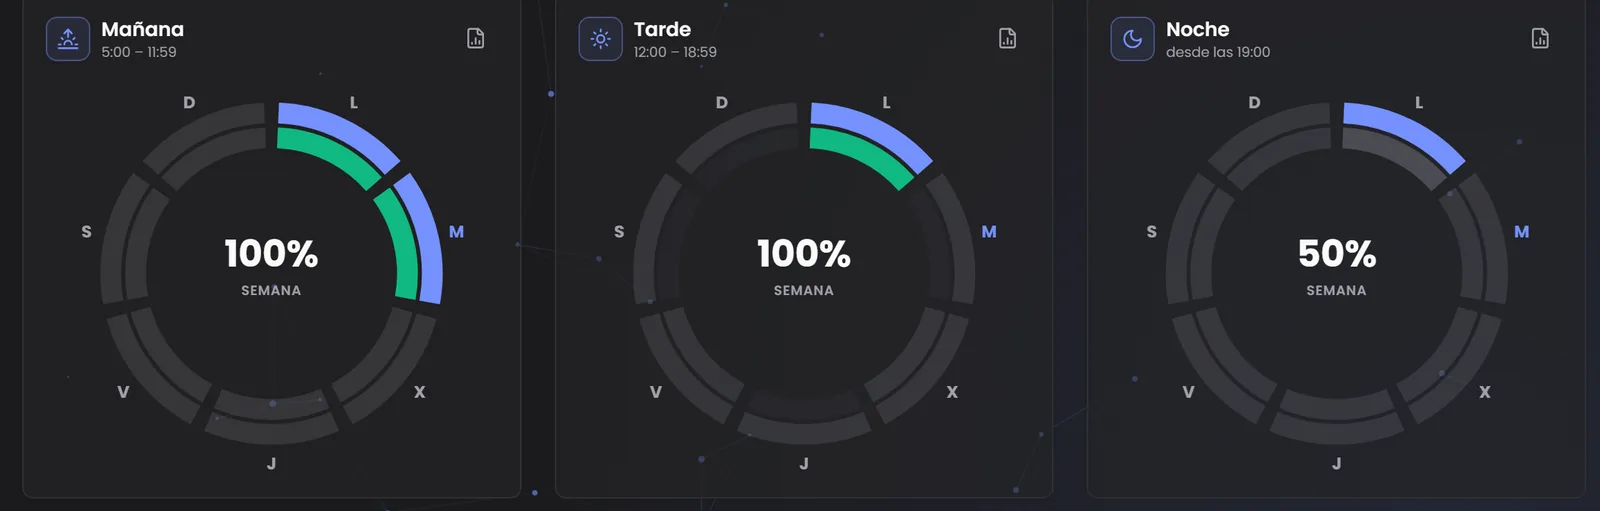
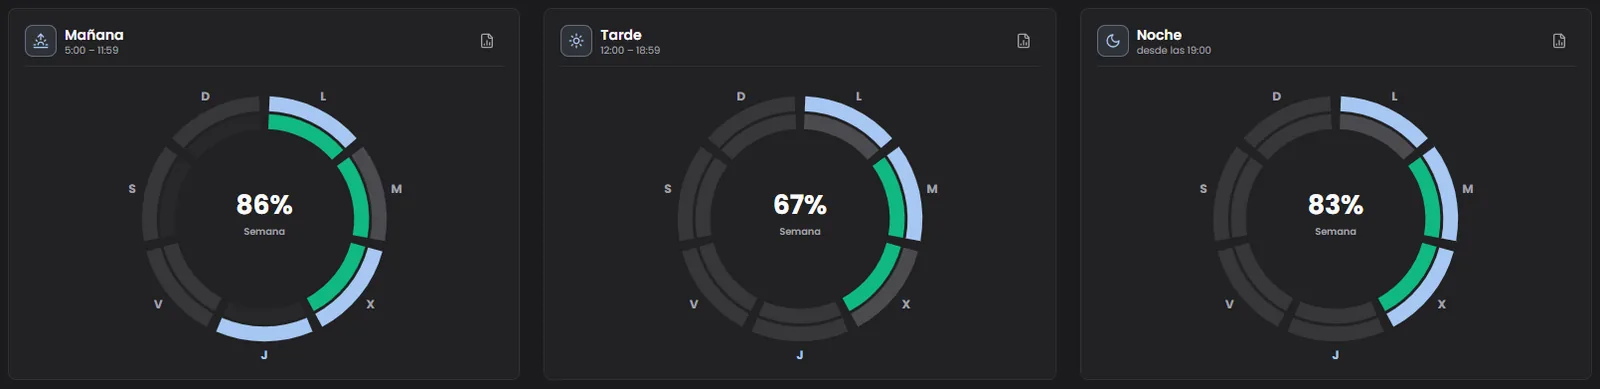
Web de Frame 1.9.0: capturas nuevas, Inicio con el horario y Privacidad 5.5
- Capturas reales de Inicio, Estudio, Tareas y los anillos de hábitos, en
  claro y oscuro, con un perfil de demostración.
- Inicio: la foto del horario que Frame lee, sin el radar de asignaturas.
- Política de Privacidad 5.5 (lectura de horarios, 3.8).
- Fuera tres capturas que la página ya no usaba.

diff --git a/privacidad/index.html b/privacidad/index.html
@@ -30,7 +30,7 @@
   </header>
   <main id="contenido" class="container legal">
     <h1>Política de Privacidad de Frame</h1>
-    <p><strong>Versión 5.4 · Vigente desde el 7 de noviembre de 2026</strong></p>
+    <p><strong>Versión 5.5 · Vigente desde el 8 de noviembre de 2026</strong></p>
     <p>Esta Política explica qué datos personales trata Frame, con qué finalidad, sobre qué base legal, durante cuánto tiempo, quién más interviene y qué derechos te asisten. Se emite conforme a la <strong>Ley N.º 29733, Ley de Protección de Datos Personales</strong>, y a su <strong>Reglamento aprobado por Decreto Supremo N.º 016-2024-JUS</strong>, vigente desde el 30 de marzo de 2025.</p>
     <p>Está redactada para ser comprendida por un estudiante de secundaria. Si algo no se entiende, escribe a vt.asvent@gmail.com y se te explicará.</p>
     <h2>1. Responsable del tratamiento</h2>
@@ -43,7 +43,7 @@
     <p>Asignaturas, colecciones, profesores, tareas y su contenido, notas de recursos, adjuntos, sesiones de estudio, valoraciones de enfoque, calificaciones, hábitos, eventos del calendario local, horarios, metas, grabaciones de voz, imágenes y biblioteca de música, con las portadas y letras que traen tus canciones o que tú les añades, y lo que escuchas en ella (reproducciones y tiempo por canción, playlist y artista, día a día).</p>
     <p><strong>Sobre estos datos no realizamos tratamiento alguno</strong>: no se transmiten al Proveedor ni a terceros, salvo el subconjunto descrito en 3.2 cuando inicias sesión.</p>
     <h3>3.2 Datos replicados en tu cuenta</h3>
-    <p>Si inicias sesión, se replica tu <strong>Estado Académico</strong>: asignaturas, tareas y su avance, sesiones y sus anotaciones, calificaciones, hábitos, eventos y recordatorios del calendario con los colores de sus casillas, anotaciones sin asignatura, playlists y su orden, las canciones que marcas con el corazón (por su título y artista, nunca el archivo), vídeos de estudio, metas y configuración (incluidos el idioma, la proporción de las imágenes y la ciudad del clima que eliges a mano). Los cambios viajan además por un canal en vivo de tu Cuenta, cifrados con una clave que solo conocen tus dispositivos, para llegar a tus otros dispositivos en menos de un segundo. También se guardan en una carpeta privada de tu Cuenta, para que aparezcan en tus otros dispositivos, tu <strong>foto de perfil y la imagen de tu horario</strong>; de las imágenes de la galería de Frame que pones a tus playlists, asignaturas y colecciones solo viaja una referencia (cuál es y su encuadre). <strong>Nunca se replican la música, las grabaciones de voz, los adjuntos ni las imágenes que subes tú a playlists, asignaturas y colecciones.</strong></p>
+    <p>Si inicias sesión, se replica tu <strong>Estado Académico</strong>: asignaturas, tareas y su avance, sesiones y sus anotaciones, calificaciones, hábitos, eventos y recordatorios del calendario con los colores de sus casillas, anotaciones sin asignatura, playlists y su orden, las canciones que marcas con el corazón (por su título y artista, nunca el archivo), vídeos de estudio, horarios con sus clases, metas y configuración (incluidos el idioma, la proporción de las imágenes y la ciudad del clima que eliges a mano). Los cambios viajan además por un canal en vivo de tu Cuenta, cifrados con una clave que solo conocen tus dispositivos, para llegar a tus otros dispositivos en menos de un segundo. También se guardan en una carpeta privada de tu Cuenta, para que aparezcan en tus otros dispositivos, tu <strong>foto de perfil y las fotos de tus horarios</strong>; de las imágenes de la galería de Frame que pones a tus playlists, asignaturas y colecciones solo viaja una referencia (cuál es y su encuadre). <strong>Nunca se replican la música, las grabaciones de voz, los adjuntos ni las imágenes que subes tú a playlists, asignaturas y colecciones.</strong></p>
     <h3>3.3 Datos de cuenta</h3>
     <p>Correo electrónico, nombres y apellidos, nombre de usuario, imagen de perfil si la cargas, y credenciales de autenticación, que se almacenan cifradas y nunca en texto claro. La contraseña que creas es exclusiva de Frame: nunca te pedimos la de tu correo electrónico. Si te registras con Google, recibimos de Google únicamente los datos básicos de perfil necesarios para crear la cuenta; <strong>nunca tu contraseña de Google</strong>.</p>
     <h3>3.4 Datos de diagnóstico</h3>
@@ -57,11 +57,17 @@
     <p><strong>Lo que pasa sin guardarse.</strong> Cada pedido del chat y la respuesta de tu Frame —que pueden incluir tus tareas, asignaturas, hábitos, eventos, sesiones, informes y música— viajan cifrados por un relé del Proveedor alojado en Cloudflare, que los entrega a la Frame que tengas abierta y devuelve la respuesta al chat. <strong>El relé no guarda las llamadas ni sus respuestas</strong>, ni las usa para nada más.</p>
     <p><strong>Lo que se guarda para que la conexión funcione.</strong> El identificador de tu Cuenta; el nombre con que se presenta cada chat y sus direcciones de retorno; los códigos de conexión, las autorizaciones y las sesiones de cada chat, como huella cifrada (SHA-256) y con sus fechas; la lista de herramientas que ofrece Frame; y, mientras una Frame está conectada al relé, un identificador aleatorio de ese equipo, su sistema (Windows o Android), la versión de Frame y la hora de su última conexión.</p>
     <p><strong>Cómo se corta.</strong> «Desconectar los chats», en la extensión, borra al instante tus sesiones y códigos y anula los accesos en curso. Al eliminar tu Cuenta desde un equipo con la extensión pasa lo mismo; si la eliminas desde otro, esas sesiones ya no sirven y se borran al caducar. Lo que el chat hace con lo que recibe se rige por la política de privacidad de su proveedor (por ejemplo, Anthropic u OpenAI), con quien te relacionas directamente.</p>
+    <h3>3.8 Lectura de horarios</h3>
+    <p>Solo cuando pides a Frame que lea las clases de la foto de un horario —al añadirlo, con «Leer las clases» o con «Volver a leer la foto»—:</p>
+    <p><strong>Lo que pasa sin guardarse.</strong> La foto, reducida, viaja cifrada con tu sesión de Cuenta a un servicio del Proveedor alojado en Cloudflare, que se la entrega al modelo abierto <strong>Gemma 4</strong> en <strong>Cloudflare Workers AI</strong> para extraer las clases —día, hora, asignatura y, si figuran, aula y docente— y te las devuelve. <strong>Ni ese servicio ni Cloudflare guardan la foto ni lo leído</strong>, ni lo usan para entrenar modelos: Cloudflare lo procesa sin retención de datos.</p>
+    <p><strong>Lo que se guarda.</strong> Para que nadie agote las lecturas de los demás, el servicio anota cuántas fotos lee tu Cuenta cada día, junto con su identificador; esa anotación se borra al día siguiente. Las clases leídas se guardan en tu Frame como parte de tu Estado Académico (apartado 3.2), donde puedes corregirlas o borrarlas.</p>
+    <p><strong>Es opcional.</strong> Puedes añadir las clases a mano, sin enviar la foto a ninguna parte.</p>
     <h2>4. Finalidades y bases legales</h2>
     <p><strong>Prestar el servicio.</strong> Los datos de cuenta y el Estado Académico replicado se tratan para autenticarte, mantener la copia de seguridad y sincronizar tu información entre dispositivos. <strong>Base legal:</strong> ejecución de la relación contractual establecida en los Términos y Condiciones. Sin estos datos los Servicios de Cuenta no pueden prestarse.</p>
     <p><strong>Seguridad de la cuenta.</strong> Los registros de acceso se tratan para detectar accesos no autorizados y abusos. <strong>Base legal:</strong> interés legítimo del Proveedor en la seguridad del servicio, ponderado con tus derechos.</p>
     <p><strong>Diagnóstico y mejora.</strong> Los datos del apartado 3.4 se tratan para detectar fallos, medir de forma agregada el uso de las funciones, orientar el desarrollo y <strong>elaborar estadísticas agregadas sobre el efecto de la Aplicación en los hábitos de estudio</strong> (por ejemplo, cuántos estudiantes la usan o cómo evoluciona el tiempo de estudio registrado), que pueden difundirse únicamente como cifras de conjunto en las que ninguna persona es identificable. El responsable de Frame puede consultar estos indicadores <strong>por estudiante</strong> en un panel interno —junto al nombre de usuario, si tienes Cuenta— para entender cómo se usa la Aplicación y detectar dónde falla; los informes con ese detalle son de <strong>uso interno</strong> y no se difunden ni se ceden. Salen de tu equipo <strong>seudonimizados y agregados</strong> —recuentos, totales y marcas temporales asociados a un identificador aleatorio— y <strong>nunca incluyen el contenido de tus tareas, notas, grabaciones ni documentos</strong>. <strong>Base legal:</strong> el interés legítimo del Proveedor en mantener la Aplicación en funcionamiento y corregir sus fallos, ponderado con tus derechos y limitado a lo estrictamente necesario para esa finalidad; no se emplean con fines publicitarios, ni para elaborar perfiles, ni para tomar decisiones automatizadas que te afecten. <strong>Puedes oponerte en cualquier momento</strong> escribiendo a vt.asvent@gmail.com e indicando tu identificador de instalación, que encontrarás en «Ajustes → Información del sistema»: se suprimirán los registros asociados a esa instalación y no se conservarán los que lleguen después. La Aplicación <strong>no incorpora todavía un interruptor propio</strong> para desactivar estos envíos; mientras no exista, esa dirección es la vía para ejercer tu oposición. <strong>Oponerte no afecta a ninguna función de la Aplicación.</strong></p>
     <p><strong>Chats de IA en la web.</strong> Los datos del apartado 3.7 se tratan para conectar con tu Frame el chat que tú elegiste y mantener esa conexión. <strong>Base legal:</strong> tu consentimiento, que das al conectar el chat y retiras con «Desconectar los chats».</p>
+    <p><strong>Lectura de horarios.</strong> Los datos del apartado 3.8 se tratan para leer las clases de la foto que eliges y limitar las lecturas diarias de cada Cuenta. <strong>Base legal:</strong> tu consentimiento, que das al pedir cada lectura.</p>
     <p><strong>Atención de consultas y reportes.</strong> <strong>Base legal:</strong> tu consentimiento al escribirnos y el interés legítimo en atenderte.</p>
     <p><strong>Cumplimiento legal.</strong> Conservación y entrega de información cuando lo exija una norma o una autoridad competente. <strong>Base legal:</strong> cumplimiento de obligación legal.</p>
     <h2>5. Datos de niñas, niños y adolescentes</h2>
@@ -74,8 +80,8 @@
     <p><strong>6.2.</strong> Los servidores se ubican en Estados Unidos de América (región de Amazon Web Services us-west-2, Oregón). Ello supone un <strong>flujo transfronterizo de datos personales</strong>, del que quedas informado y respecto del cual se han adoptado las garantías exigidas por la normativa peruana. La relación actualizada de encargados y subencargados figura en el Anexo B.</p>
     <p><strong>6.3.</strong> Cuando utilizas las interfaces de Gmail, YouTube, Classroom o Drive, <strong>interactúas directamente con Google LLC</strong> conforme a su propia política de privacidad. En esa relación Google es responsable del tratamiento y el Proveedor no interviene.</p>
     <p><strong>6.4. Compromiso de uso limitado.</strong> El uso que la Aplicación hace de la información recibida de las API de Google se ajusta a la <em>Google API Services User Data Policy</em>, incluidos sus requisitos de uso limitado. En particular, esos datos <strong>se emplean únicamente para proveer o mejorar las funciones visibles al usuario, no se transfieren a terceros salvo para prestar esas funciones o por exigencia legal, no se usan con fines publicitarios y no se someten a lectura humana</strong> salvo consentimiento expreso, requerimiento legal o razones de seguridad.</p>
-    <p><strong>6.4 bis. Música, portadas y letras.</strong> Por sí misma, la Aplicación no descarga canciones, portadas ni letras, ni consulta ningún servicio para buscarlas: reproduce los archivos que tú importas y muestra la portada y la letra que traen esos archivos, las que tú añades desde tu dispositivo y las que versiones anteriores ya guardaron en él, que se conservan. Si instalas y activas una <strong>extensión de descargas</strong> —un programa de terceros que se ejecuta en tu propio equipo—, la Aplicación le envía, a petición tuya, el enlace y los datos de cada canción que añades (título, artista, álbum y duración), y es <strong>ese programa</strong> el que la descarga y consulta servicios públicos de letras y portadas para completarla; la Aplicación solo importa el archivo que entrega. Ese programa y esos servicios se rigen por sus propias condiciones, y te corresponde usarlos respetando los derechos de propiedad intelectual y las condiciones de cada plataforma. Sin esa extensión, nada de ello sale de tu equipo.</p>
-    <p><strong>6.4 ter. Chats de IA en la web.</strong> El relé del apartado 3.7 funciona sobre <strong>Cloudflare, Inc.</strong>, que actúa como <strong>encargado de tratamiento</strong>: procesa las llamadas en los centros de datos de su red mundial y guarda la base de datos del relé en Norteamérica. Ello supone otro <strong>flujo transfronterizo de datos personales</strong>, del que quedas informado al conectar el chat. El chat que conectas trata lo que recibe como responsable de ese tratamiento, conforme a su propia política.</p>
+    <p><strong>6.4 bis. Música, portadas y letras.</strong> Por sí misma, la Aplicación no descarga canciones, portadas ni letras, ni consulta ningún servicio para buscarlas: reproduce los archivos que tú importas y muestra la portada y la letra que traen esos archivos, las que tú añades desde tu dispositivo y las que versiones anteriores ya guardaron en él, que se conservan. Si instalas y activas una <strong>extensión de descargas</strong>, la Aplicación instala en tu equipo el programa de terceros que la acompaña —solo si está firmado por su autor y lo descarga de su página oficial, sin permisos de administrador—, lo abre cuando hace falta y lo mantiene al día; la versión de Microsoft Store no instala programas. A petición tuya, la Aplicación le envía el enlace y los datos de cada canción que añades (título, artista, álbum y duración), y es <strong>ese programa</strong> el que la descarga y consulta servicios públicos de letras y portadas para completarla; la Aplicación solo importa el archivo que entrega. Ese programa y esos servicios se rigen por sus propias condiciones, y te corresponde usarlos respetando los derechos de propiedad intelectual y las condiciones de cada plataforma. Sin esa extensión, nada de ello sale de tu equipo.</p>
+    <p><strong>6.4 ter. Chats de IA en la web y lectura de horarios.</strong> El relé del apartado 3.7 y el lector del apartado 3.8 funcionan sobre <strong>Cloudflare, Inc.</strong>, que actúa como <strong>encargado de tratamiento</strong>: procesa las llamadas y las fotos en los centros de datos de su red mundial y guarda la base de datos del servicio en Norteamérica. Ello supone otro <strong>flujo transfronterizo de datos personales</strong>, del que quedas informado al conectar el chat o al pedir la lectura. El chat que conectas trata lo que recibe como responsable de ese tratamiento, conforme a su propia política.</p>
     <p><strong>6.5.</strong> No cedemos datos personales a terceros distintos de los indicados, salvo requerimiento de autoridad competente en el ejercicio de sus funciones.</p>
     <h2>7. Plazos de conservación</h2>
     <p>Datos de cuenta y Estado Académico replicado: mientras la Cuenta permanezca activa. Cuentas inactivas: hasta veinticuatro (24) meses, con el preaviso previsto en los Términos. Datos de diagnóstico: máximo doce (12) meses desde su recepción. Comunicaciones de soporte: hasta veinticuatro (24) meses desde el cierre del caso. Registros de aceptación de los Términos: mientras dure la relación y cuatro (4) años después, como prueba del contrato. Registros de seguridad: seis (6) meses. Chats de IA en la web: códigos de conexión, diez (10) minutos; autorizaciones, cinco (5) minutos; sesiones, hasta ciento ochenta (180) días desde su último uso o hasta que desconectes los chats; las llamadas y sus respuestas no se conservan.</p>
@@ -106,11 +112,11 @@
     <p>Este anexo detalla, categoría por categoría, qué se trata y para qué. Cumple el deber de información del Reglamento y sirve de referencia rápida.</p>
     <div class="tbl"><table><thead><tr><th>Dato</th><th>Para qué</th><th>Dónde</th></tr></thead><tbody><tr><td>Identificador de instalación</td><td>Vincular los datos locales y los reportes de soporte</td><td>Sale del dispositivo solo con el diagnóstico y los reportes que tú envías</td></tr><tr><td>Correo electrónico</td><td>Identificar la Cuenta, recuperar credenciales, avisos contractuales</td><td>Solo existe si te registras</td></tr><tr><td>Nombre de usuario e imagen de perfil</td><td>Personalizar la interfaz</td><td>Replicados con la Cuenta</td></tr><tr><td>Credenciales</td><td>Autenticación</td><td>Cifradas; nunca legibles por el Proveedor</td></tr><tr><td>Estado Académico</td><td>Copia de seguridad y sincronización</td><td>Replicado solo con Cuenta activa</td></tr><tr><td>Música, grabaciones, adjuntos e imágenes que subes a playlists, asignaturas y colecciones</td><td>Reproducción, grabación y consulta</td><td><strong>Nunca salen del dispositivo</strong></td></tr><tr><td>Imágenes de la Cuenta (perfil y horario)</td><td>Que aparezcan en tus otros dispositivos</td><td>Carpeta privada de tu Cuenta; se borran al eliminar la Cuenta</td></tr><tr><td>Referencias a imágenes de la galería de Frame (cuál es y su encuadre)</td><td>Que la misma imagen aparezca en tus otros dispositivos</td><td>Replicadas con el Estado Académico</td></tr><tr><td>Registros de error, versión e indicadores de uso (incluida su serie diaria)</td><td>Diagnóstico, mejora y estadísticas agregadas de impacto</td><td>Seudonimizados; puedes oponerte por correo</td></tr><tr><td>Perfil de uso: ciudad, región y país aproximados, zona horaria, idiomas, tipo de equipo, horas de estudio, rachas y cuántos elementos tienes de cada función</td><td>Entender dónde, cuándo y cómo se usa Frame (panel interno del responsable)</td><td>Seudonimizado; nunca coordenadas ni contenido; puedes oponerte por correo</td></tr><tr><td>Registros de acceso</td><td>Seguridad de la Cuenta</td><td>Conservación de 6 meses</td></tr><tr><td>Comunicaciones de soporte</td><td>Atención del caso</td><td>Conservación de 24 meses</td></tr><tr><td>Sesiones de los chats de IA en la web (identificador de la Cuenta, nombre del chat, huellas y fechas)</td><td>Conectar con tu Frame el chat que elegiste</td><td>Cloudflare, solo si conectas un chat; las llamadas no se guardan</td></tr></tbody></table></div>
     <h2>Anexo B — Encargados de tratamiento y subencargados</h2>
-    <p>Relación vigente a 7 de noviembre de 2026:</p>
+    <p>Relación vigente a 8 de noviembre de 2026:</p>
     <ul>
     <li><strong>Supabase</strong> — autenticación, base de datos y almacenamiento de la copia de seguridad — servidores en Estados Unidos de América (región de Amazon Web Services us-west-2, Oregón) — contrato de encargo: por definir; rige entretanto el acuerdo de tratamiento de datos incorporado a las condiciones de servicio de Supabase.</li>
     <li><strong>GitHub, Inc.</strong> — alojamiento de los instaladores y del canal de actualizaciones — Estados Unidos.</li>
-    <li><strong>Cloudflare, Inc.</strong> — relé de los chats de IA en la web, solo si los conectas (apartado 3.7) — red mundial de centros de datos; base de datos en Norteamérica — rige el acuerdo de tratamiento de datos incorporado a las condiciones de servicio de Cloudflare.</li>
+    <li><strong>Cloudflare, Inc.</strong> — relé de los chats de IA en la web, solo si los conectas (apartado 3.7), y lectura de horarios con Workers AI, solo si la pides (apartado 3.8) — red mundial de centros de datos; base de datos en Norteamérica — rige el acuerdo de tratamiento de datos incorporado a las condiciones de servicio de Cloudflare.</li>
     </ul>
     <p>Toda incorporación o sustitución de encargado se comunicará conforme al apartado 12 de la Política de Privacidad.</p>
     <h2>Anexo F — Almacenamiento local y componentes web incrustados</h2>

diff --git a/index.html b/index.html
@@ -76,11 +76,11 @@
       <div class="container">
         <div class="hero-inner">
           <div class="hero-copy" data-reveal>
-            <a class="pill" href="#idioma">
+            <a class="pill" href="#inicio">
               <span class="dot-live" aria-hidden="true"></span>
               <span>Nuevo en <b data-version>Frame 1.6</b></span>
               <span class="pill-sep" aria-hidden="true"></span>
-              <span class="pill-strong">ahora también en inglés</span>
+              <span class="pill-strong">tu horario, leído de una foto</span>
             </a>
             <h1 class="display">
               Tu sistema operativo
@@ -105,7 +105,7 @@
           <div class="hero-visual" data-reveal>
             <div class="window tilt" id="hero-window">
               <div class="window-bar" aria-hidden="true"><i></i><i></i><i></i><span>Frame · Inicio</span></div>
-              <img class="shot shot-dark" src="assets/img/app-inicio-dark.webp" width="1920" height="1200" alt="Pantalla de Inicio de Frame: clima, horario semanal y rendimiento académico" fetchpriority="high" />
+              <img class="shot shot-dark" src="assets/img/app-inicio-dark.webp" width="1920" height="1200" alt="Pantalla de Inicio de Frame: la clase de ahora en el horario, el clima, las tareas pendientes y la semana en datos" fetchpriority="high" />
               <img class="shot shot-light" src="assets/img/app-inicio-light.webp" width="1920" height="1200" alt="Pantalla de Inicio de Frame en modo claro" />
             </div>
             <div class="float-chip chip-a" aria-hidden="true">
@@ -195,16 +195,16 @@
         </header>
 
         <div class="grid-12">
-          <article class="panel col-12 feature-wide" data-reveal>
+          <article class="panel col-12 feature-wide" id="inicio" data-reveal>
             <div class="feature-text">
               <p class="kicker">Inicio</p>
               <h3 class="h3">Tu día, <span class="accent">de un vistazo.</span></h3>
-              <p>El clima por horas, tu horario, la próxima entrega y un <b>pulso académico</b> que calcula tu calificación del día, el promedio semanal y tu racha de constancia.</p>
-              <ul class="tags"><li>Calificación AD · A · B · C</li><li>Racha de días</li><li>Radar de asignaturas</li><li>Semana en datos</li></ul>
+              <p>Sube la foto de tu horario y Frame <b>lee tus clases</b>: la de ahora siempre al centro, con la anterior y la siguiente a los lados. Debajo, el clima por horas, tus próximas entregas, el pomodoro, tu playlist, tu racha y tu semana en datos.</p>
+              <ul class="tags"><li>Horario leído de una foto</li><li>Vista semanal</li><li>Racha de días</li><li>Semana en datos</li></ul>
             </div>
             <figure class="window">
               <div class="window-bar" aria-hidden="true"><i></i><i></i><i></i><span>Inicio</span></div>
-              <img class="shot shot-dark" src="assets/img/app-inicio-dark.webp" width="1920" height="1200" loading="lazy" alt="Inicio de Frame: clima, horario y rendimiento académico" />
+              <img class="shot shot-dark" src="assets/img/app-inicio-dark.webp" width="1920" height="1200" loading="lazy" alt="Inicio de Frame: el horario del día, el clima y las tareas pendientes" />
               <img class="shot shot-light" src="assets/img/app-inicio-light.webp" width="1920" height="1200" loading="lazy" alt="Inicio de Frame en modo claro" />
             </figure>
           </article>
@@ -244,8 +244,8 @@
             </div>
             <figure class="window">
               <div class="window-bar" aria-hidden="true"><i></i><i></i><i></i><span>Registro de hábitos</span></div>
-              <img class="shot shot-dark" src="assets/img/app-anillos-dark.webp" width="1600" height="511" loading="lazy" alt="Anillos de hábitos de Frame por fase del día" />
-              <img class="shot shot-light" src="assets/img/app-anillos-light.webp" width="1600" height="511" loading="lazy" alt="Anillos de hábitos de Frame en modo claro" />
+              <img class="shot shot-dark" src="assets/img/app-anillos-dark.webp" width="1600" height="389" loading="lazy" alt="Anillos de hábitos de Frame por fase del día" />
+              <img class="shot shot-light" src="assets/img/app-anillos-light.webp" width="1600" height="389" loading="lazy" alt="Anillos de hábitos de Frame en modo claro" />
             </figure>
           </article>
         </div>
@@ -462,7 +462,7 @@
           </details>
           <details>
             <summary>¿Dónde quedan mis datos?</summary>
-            <p>Primero en tu equipo. Si entras con una cuenta, tu estado académico, tu idioma y tus preferencias se respaldan en la nube y cada cambio llega a tus otros dispositivos en menos de un segundo. Tu foto de perfil y la imagen del horario van a una carpeta privada de tu cuenta, y las imágenes de la galería de Frame viajan como una referencia. La música, las grabaciones y las imágenes que subes tú solo viven en el dispositivo donde las añadiste; de tus canciones solo viaja cuáles marcaste con el corazón.</p>
+            <p>Primero en tu equipo. Si entras con una cuenta, tu estado académico, tu idioma y tus preferencias se respaldan en la nube y cada cambio llega a tus otros dispositivos en menos de un segundo. Tu foto de perfil y las fotos de tus horarios van a una carpeta privada de tu cuenta, y las imágenes de la galería de Frame viajan como una referencia. La música, las grabaciones y las imágenes que subes tú solo viven en el dispositivo donde las añadiste; de tus canciones solo viaja cuáles marcaste con el corazón.</p>
           </details>
           <details>
             <summary>¿Cómo sé si todo está sincronizado?</summary>
